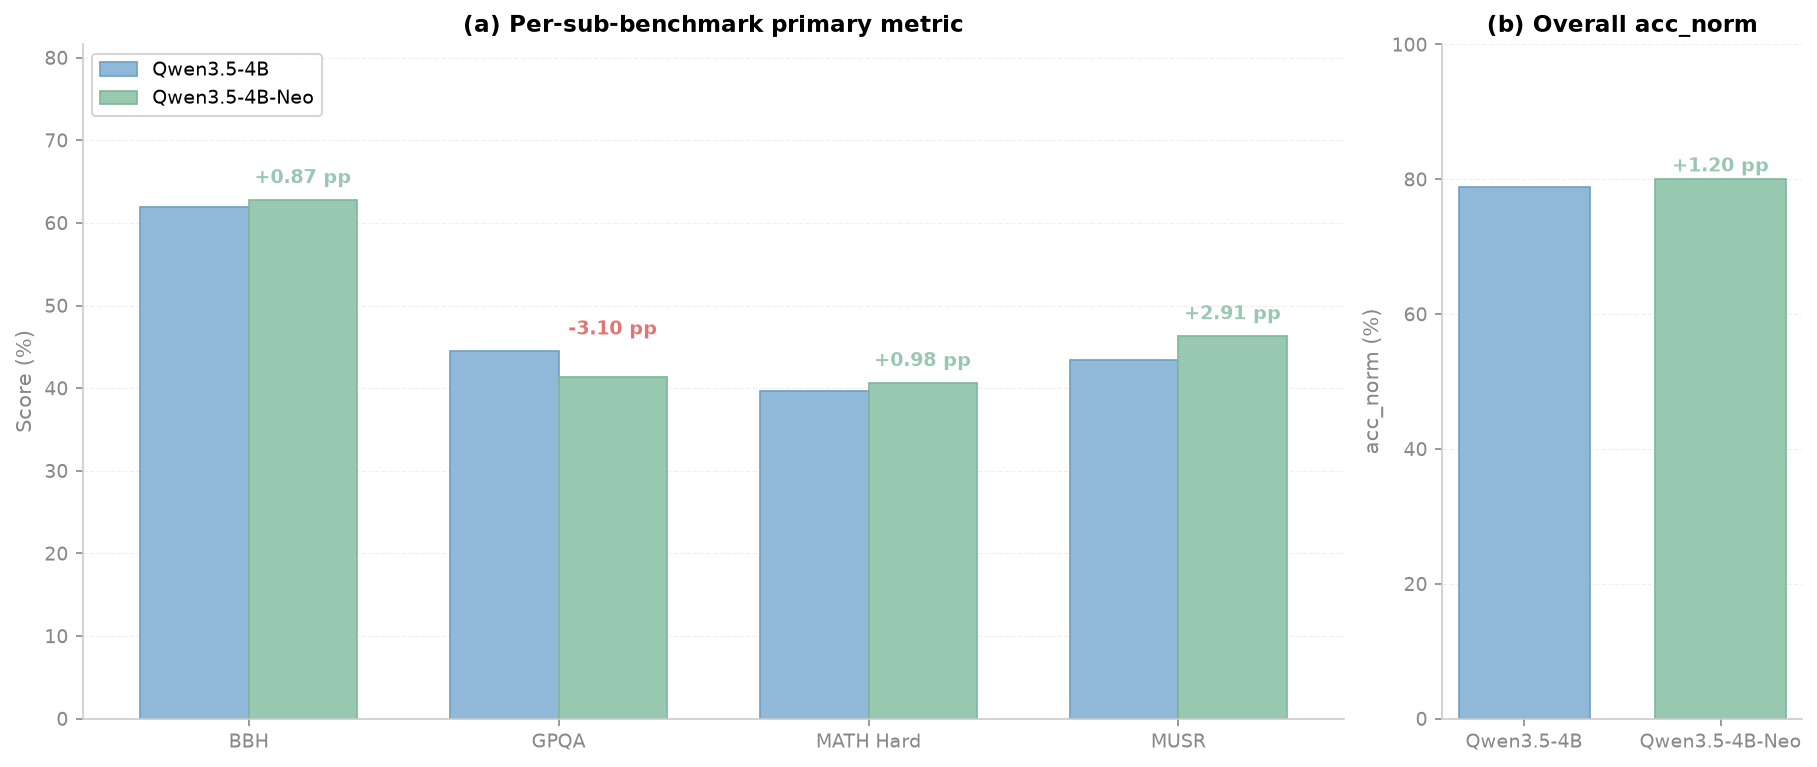
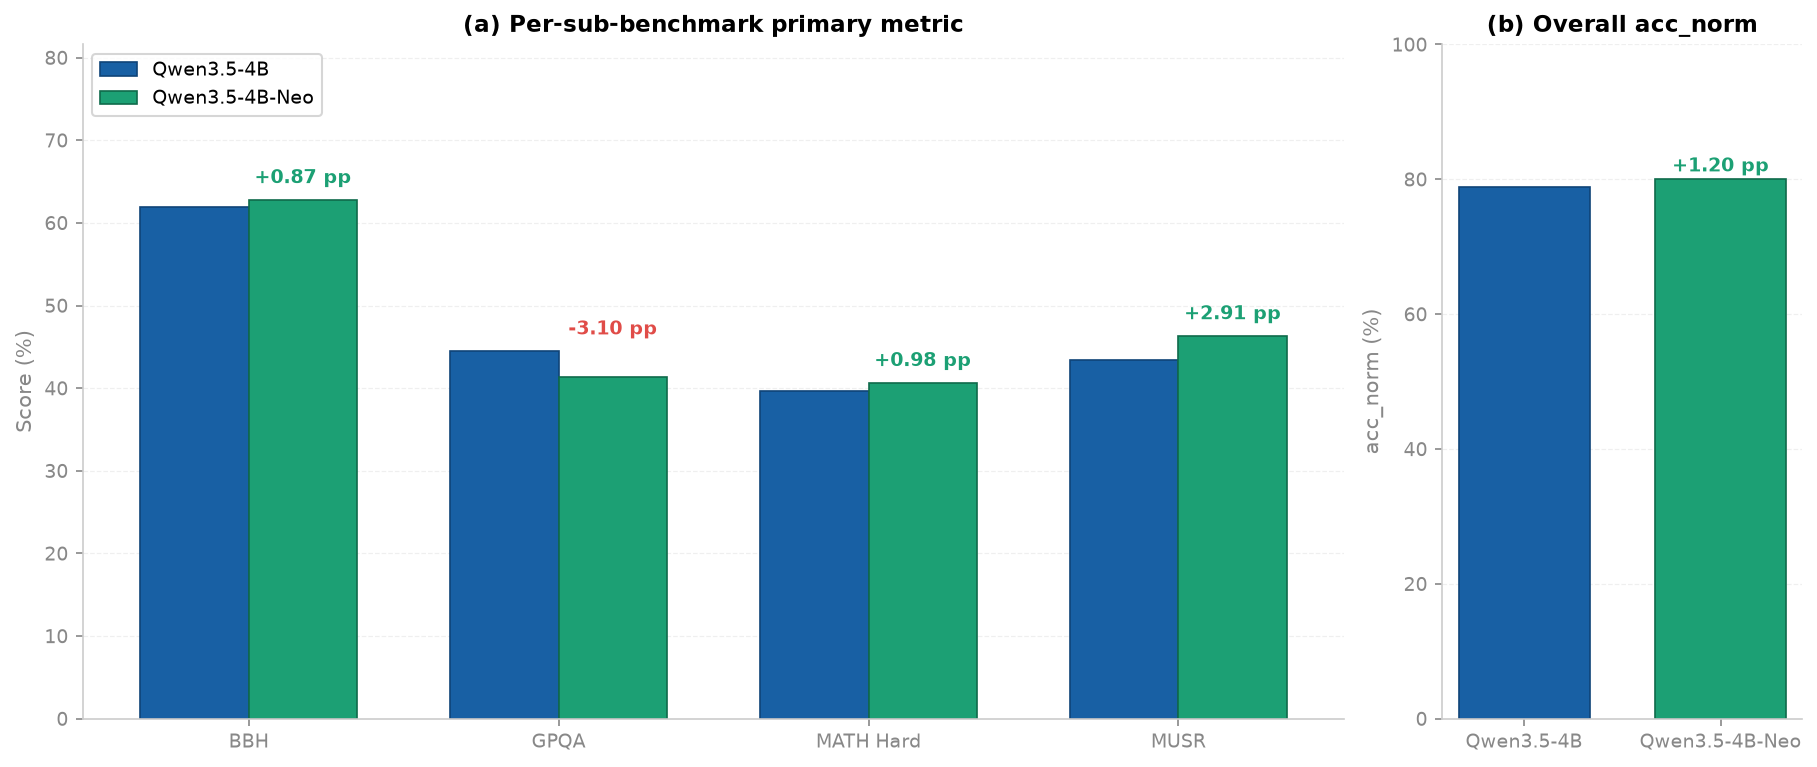
fix: correct figure palettes to match reference images
Pixel-sampling the reference pages revealed two distinct palettes that we
had conflated into one. The 4B MMLU-Pro series uses #98B8D8/#98C8B4
(was #90B8D8/#98C8B0, slightly dark), while the 9B sub-benchmark series
(Figures 1 and 3) uses an opaque dark #1860A4/#1CA074/#E04C48. Figure 5
bubbles were also washed out by an unnecessary alpha=0.85.

diff --git a/src/thinker/eval/plotter.py b/src/thinker/eval/plotter.py
@@ -50,13 +50,22 @@ class ComprehensiveAcademicPlotter:
             }
         )
 
-        # ── 柱子颜色：参考图采样 ──
-        self.c_base = "#90B8D8"       # 浅蓝（参考图采样）
-        self.c_base_edge = "#6E9FC4"   # 深一点的蓝（边框）
-        self.c_neo = "#98C8B0"         # 浅青绿（参考图采样）
-        self.c_neo_edge = "#7DB89A"    # 深一点的绿（边框）
+        # ── 柱子颜色：参考图逐像素采样 ──
+        # 4B MMLU-Pro 系列图 (JeN8uln Fig1/Fig2, 6acL4Cy Fig3) 实测填充色
+        self.c_base = "#98B8D8"        # 浅蓝
+        self.c_base_edge = "#749FC4"   # 边框（按原比例压暗）
+        self.c_neo = "#98C8B4"         # 浅青绿
+        self.c_neo_edge = "#7DB89E"    # 边框（按原比例压暗）
         self.c_neg = "#E57373"         # 柔和红
         self.c_warn = "#FFB74D"        # 柔和橙
+
+        # ── 9B 子基准系列图 (Figure 1 leaderboard / Figure 3 sub-delta) ──
+        # 参考图 ALk4kWk + ux8j205 实测：不透明深色系
+        self.c_base_9b = "#1860A4"       # 深蓝
+        self.c_base_9b_edge = "#0F4478"  # 边框
+        self.c_neo_9b = "#1CA074"        # 深青绿
+        self.c_neo_9b_edge = "#0F6B4B"   # 边框
+        self.c_neg_9b = "#E04C48"        # 红（负 delta 柱）
 
         # 柱子不透明（与参考图一致）
         self.bar_alpha = 1.0
@@ -103,16 +112,16 @@ class ComprehensiveAcademicPlotter:
         x = np.arange(len(subsets))
         width = 0.35
 
-        # 柱子：半透明填充 + 边框
+        # 柱子：9B 子基准系列用深色系（参考图 ALk4kWk 实测）
         ax1.bar(
             x - width / 2, base_scores, width,
-            label=model_names[0], color=self.c_base,
-            edgecolor=self.c_base_edge, linewidth=0.8, alpha=self.bar_alpha,
+            label=model_names[0], color=self.c_base_9b,
+            edgecolor=self.c_base_9b_edge, linewidth=0.8, alpha=self.bar_alpha,
         )
         ax1.bar(
             x + width / 2, neo_scores, width,
-            label=model_names[1], color=self.c_neo,
-            edgecolor=self.c_neo_edge, linewidth=0.8, alpha=self.bar_alpha,
+            label=model_names[1], color=self.c_neo_9b,
+            edgecolor=self.c_neo_9b_edge, linewidth=0.8, alpha=self.bar_alpha,
         )
         ax1.set_ylabel("Score (%)")
         ax1.set_title("(a) Per-sub-benchmark primary metric", fontweight="bold")
@@ -126,7 +135,7 @@ class ComprehensiveAcademicPlotter:
         for i in range(len(subsets)):
             b, n = base_scores[i], neo_scores[i]
             delta = n - b
-            d_color = self.c_neo if delta >= 0 else self.c_neg
+            d_color = self.c_neo_9b if delta >= 0 else self.c_neg_9b
             sign = "+" if delta >= 0 else ""
             ax1.text(
                 x[i] + width / 2,
@@ -140,12 +149,12 @@ class ComprehensiveAcademicPlotter:
         x_overall = np.array([0, 0.6])
         ax2.bar(
             x_overall[0], base_overall, width=0.4,
-            color=self.c_base, edgecolor=self.c_base_edge,
+            color=self.c_base_9b, edgecolor=self.c_base_9b_edge,
             linewidth=0.8, alpha=self.bar_alpha,
         )
         ax2.bar(
             x_overall[1], neo_overall, width=0.4,
-            color=self.c_neo, edgecolor=self.c_neo_edge,
+            color=self.c_neo_9b, edgecolor=self.c_neo_9b_edge,
             linewidth=0.8, alpha=self.bar_alpha,
         )
         ax2.set_ylabel("acc_norm (%)")
@@ -162,7 +171,7 @@ class ComprehensiveAcademicPlotter:
             neo_overall + 0.5,
             f"{o_sign}{o_delta:.2f} pp",
             ha="center", va="bottom",
-            color=self.c_neo, fontweight="bold", fontsize=9,
+            color=self.c_neo_9b, fontweight="bold", fontsize=9,
         )
 
         self._save(fig, filename)
@@ -249,11 +258,12 @@ class ComprehensiveAcademicPlotter:
     ):
         fig, ax = plt.subplots(figsize=(8, 4), constrained_layout=True)
         y_pos = np.arange(len(subsets))
-        colors = [self.c_neo if d >= 0 else self.c_neg for d in deltas]
+        # 9B 子基准系列用深色系（参考图 ux8j205 实测 #1CA074 / #E04C48）
+        colors = [self.c_neo_9b if d >= 0 else self.c_neg_9b for d in deltas]
 
         bars = ax.barh(
             y_pos, deltas, height=0.4, color=colors, align="center",
-            edgecolor=[self.c_neo_edge if d >= 0 else "#D32F2F" for d in deltas],
+            edgecolor=[self.c_neo_9b_edge if d >= 0 else "#B33A36" for d in deltas],
             linewidth=0.8, alpha=self.bar_alpha,
         )
         ax.set_yticks(y_pos)
@@ -275,7 +285,7 @@ class ComprehensiveAcademicPlotter:
             sign = "+" if delta >= 0 else ""
             tx = w + 0.15 if delta >= 0 else w - 0.15
             ha = "left" if delta >= 0 else "right"
-            color = self.c_neo if delta >= 0 else self.c_neg
+            color = self.c_neo_9b if delta >= 0 else self.c_neg_9b
             ax.text(
                 tx,
                 bar.get_y() + bar.get_height() / 2,
@@ -390,14 +400,15 @@ class ComprehensiveAcademicPlotter:
     ):
         fig, ax = plt.subplots(figsize=(6, 5), constrained_layout=True)
 
+        # 气泡不透明（参考图实测 #98B8D8 / #98C8B4）
         ax.scatter(
             [base_cost], [base_acc], s=400,
-            color=self.c_base, alpha=0.85, label=model_names[0],
+            color=self.c_base, alpha=self.bar_alpha, label=model_names[0],
             edgecolor=self.c_base_edge, linewidth=1.2,
         )
         ax.scatter(
             [neo_cost], [neo_acc], s=400,
-            color=self.c_neo, alpha=0.85, label=model_names[1],
+            color=self.c_neo, alpha=self.bar_alpha, label=model_names[1],
             edgecolor=self.c_neo_edge, linewidth=1.2,
         )
         # 气泡旁的模型名标签
